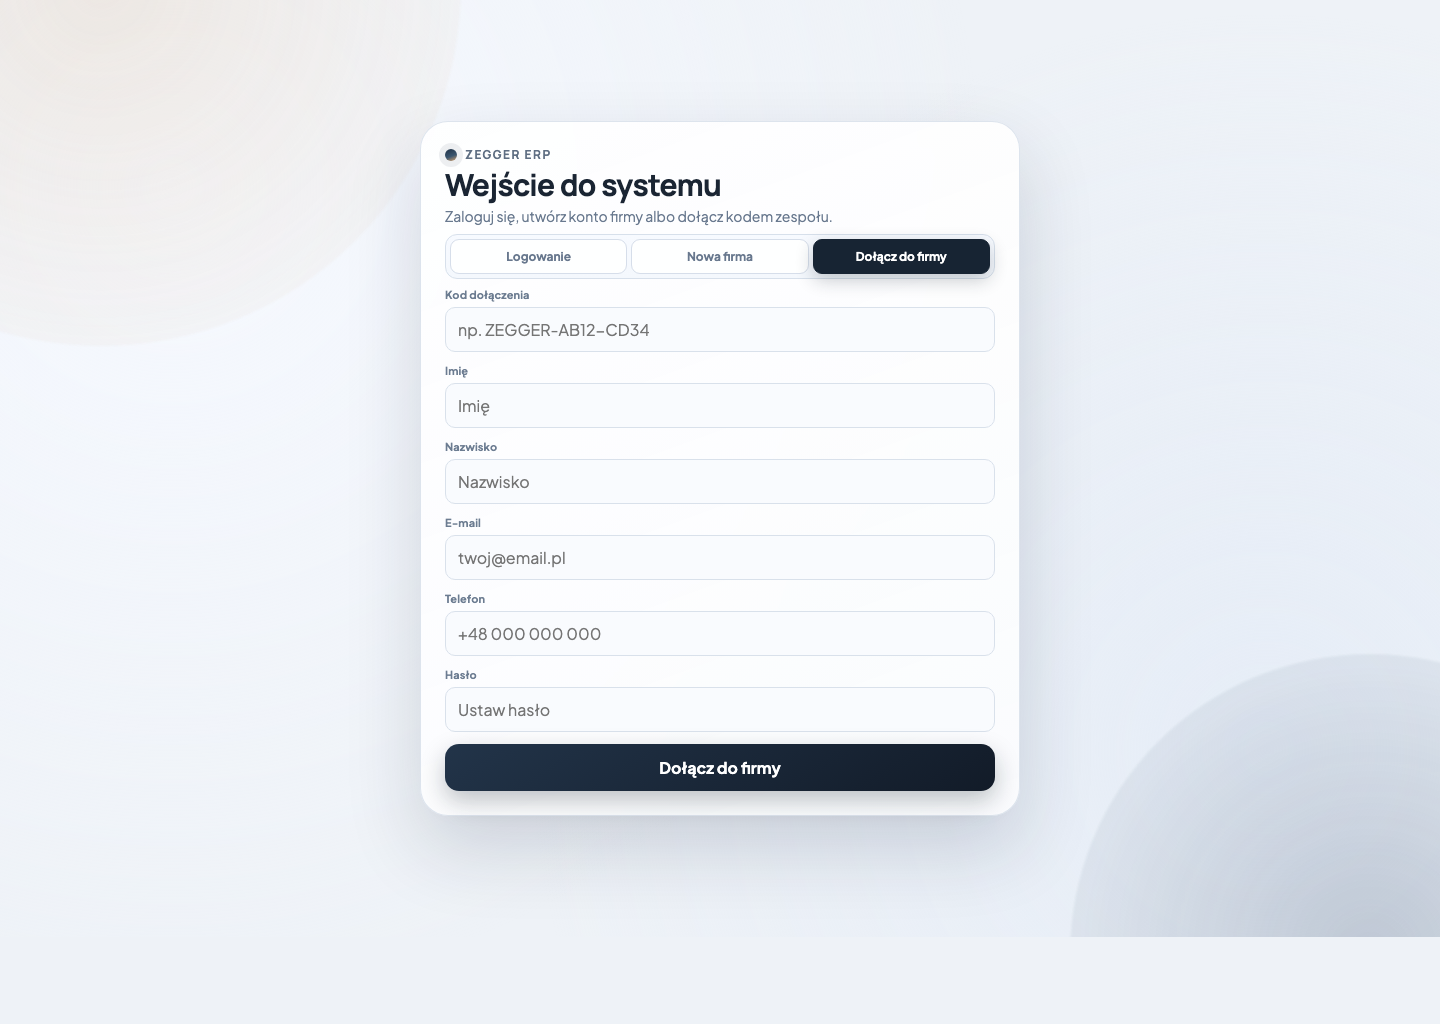
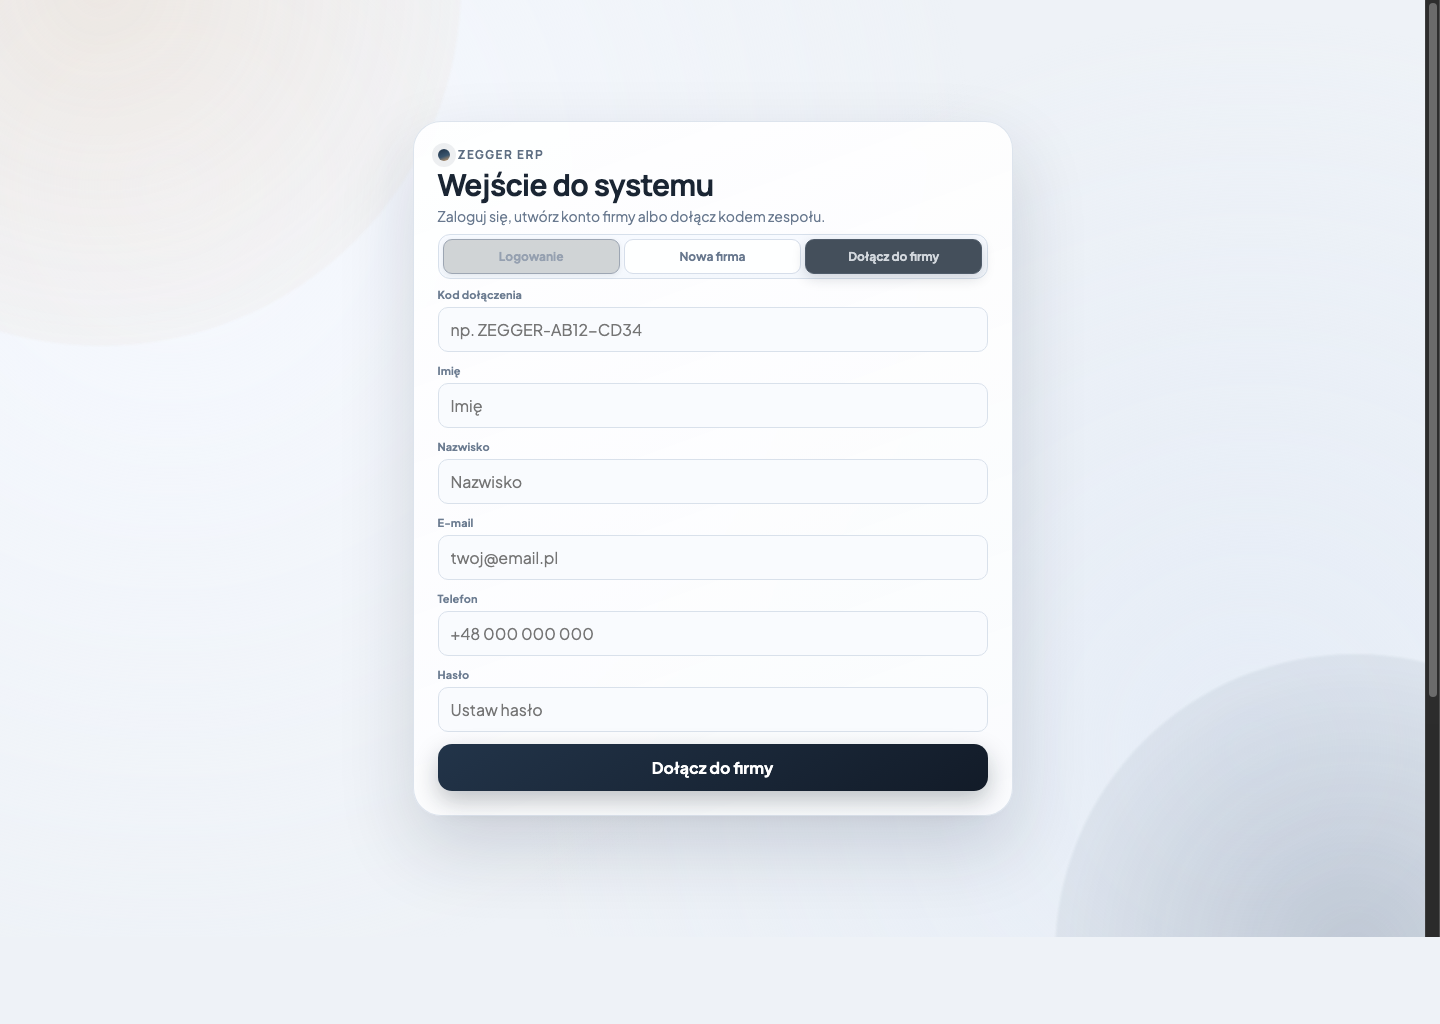
v22

diff --git a/prototype-ui/assets/css/prototype.css b/prototype-ui/assets/css/prototype.css
@@ -447,28 +447,35 @@ textarea {
   padding: 16px;
 }
 
-.zgs-scroll-indicator {
-  position: absolute;
-  right: 7px;
-  width: 5px;
-  border-radius: 999px;
-  background: rgba(136, 151, 171, 0.16);
-  opacity: 0;
-  pointer-events: none;
-  transition: opacity 0.18s ease;
-  z-index: 4;
+/* Globalny, wspólny styl natywnych scrollbarów dla całego ERP desktop */
+.zgs-shell-window,
+.zgs-shell-window :where(*) {
+  scrollbar-width: thin;
+  scrollbar-color: rgba(120, 136, 160, 0.42) transparent;
 }
 
-.zgs-scroll-indicator.is-visible {
-  opacity: 1;
+.zgs-shell-window::-webkit-scrollbar,
+.zgs-shell-window :where(*)::-webkit-scrollbar {
+  width: 6px;
+  height: 6px;
 }
 
-.zgs-scroll-indicator-thumb {
-  display: block;
-  width: 100%;
+.zgs-shell-window::-webkit-scrollbar-track,
+.zgs-shell-window :where(*)::-webkit-scrollbar-track {
+  background: transparent;
+}
+
+.zgs-shell-window::-webkit-scrollbar-thumb,
+.zgs-shell-window :where(*)::-webkit-scrollbar-thumb {
+  background: rgba(120, 136, 160, 0.42);
   border-radius: 999px;
-  background: rgba(67, 88, 113, 0.44);
-  box-shadow: inset 0 0 0 1px rgba(244, 248, 253, 0.55);
+  border: 0;
+  box-shadow: none;
+}
+
+.zgs-shell-window::-webkit-scrollbar-thumb:hover,
+.zgs-shell-window :where(*)::-webkit-scrollbar-thumb:hover {
+  background: rgba(120, 136, 160, 0.58);
 }
 
 .zgs-view {
@@ -1249,7 +1256,7 @@ textarea {
 }
 
 .zgs-chat-grid {
-  grid-template-columns: minmax(210px, 0.58fr) minmax(0, 1.82fr) minmax(236px, 0.82fr);
+  grid-template-columns: minmax(248px, 0.68fr) minmax(0, 1.72fr) minmax(236px, 0.82fr);
 }
 
 .zgs-span-2 {
@@ -2578,12 +2585,11 @@ textarea {
   flex-direction: column;
   gap: 6px;
   position: relative;
-  overflow: hidden;
+  overflow: visible;
 }
 
 .zgs-chat-pane-context {
   grid-template-rows: auto auto auto auto auto auto minmax(0, auto) auto;
-  padding-right: 5px;
   overflow: auto;
   position: relative;
   gap: 8px;
@@ -2655,7 +2661,17 @@ textarea {
   overflow-y: auto;
   overflow-x: hidden;
   position: relative;
+  box-sizing: border-box;
   padding-right: 0;
+  scrollbar-gutter: auto;
+  -ms-overflow-style: none;
+  scrollbar-width: none;
+}
+
+.zgs-chat-list-scroll::-webkit-scrollbar {
+  width: 0;
+  height: 0;
+  display: none;
 }
 
 .zgs-chat-list-search input {
@@ -3578,60 +3594,6 @@ textarea {
 .zgs-thread-entry.is-production-event {
   border-color: #c7d8ea;
   background: #edf4fc;
-}
-
-.zgs-chat-list-scroll {
-  scrollbar-width: thin;
-  scrollbar-color: rgba(120, 136, 160, 0.45) transparent;
-}
-
-.zgs-chat-list-scroll::-webkit-scrollbar {
-  width: 6px;
-  height: 6px;
-}
-
-.zgs-chat-list-scroll::-webkit-scrollbar-track {
-  background: transparent;
-}
-
-.zgs-chat-list-scroll::-webkit-scrollbar-thumb {
-  background: rgba(120, 136, 160, 0.45);
-  border-radius: 999px;
-  border: 0;
-  box-shadow: none;
-}
-
-.zgs-chat-list-scroll::-webkit-scrollbar-thumb:hover {
-  background: rgba(120, 136, 160, 0.62);
-}
-
-.zgs-chat-thread,
-.zgs-chat-pane-context,
-.zgs-chat-status-history {
-  scrollbar-width: thin;
-  scrollbar-color: rgba(67, 88, 113, 0.44) rgba(136, 151, 171, 0.16);
-}
-
-.zgs-chat-thread::-webkit-scrollbar,
-.zgs-chat-pane-context::-webkit-scrollbar,
-.zgs-chat-status-history::-webkit-scrollbar {
-  width: 5px;
-  height: 5px;
-}
-
-.zgs-chat-thread::-webkit-scrollbar-track,
-.zgs-chat-pane-context::-webkit-scrollbar-track,
-.zgs-chat-status-history::-webkit-scrollbar-track {
-  background: rgba(136, 151, 171, 0.16);
-  border-radius: 999px;
-}
-
-.zgs-chat-thread::-webkit-scrollbar-thumb,
-.zgs-chat-pane-context::-webkit-scrollbar-thumb,
-.zgs-chat-status-history::-webkit-scrollbar-thumb {
-  background: rgba(67, 88, 113, 0.44);
-  border-radius: 999px;
-  box-shadow: inset 0 0 0 1px rgba(244, 248, 253, 0.55);
 }
 
 .zgs-chat-followup h4,

diff --git a/prototype-ui/assets/js/app.js b/prototype-ui/assets/js/app.js
@@ -1982,73 +1982,6 @@
       "</div>";
   }
 
-  function initShellScrollIndicator() {
-    var shellWindow = document.querySelector(".zgs-shell-window");
-    var shellContent = document.querySelector(".zgs-shell-content");
-    if (!shellWindow || !shellContent) {
-      return;
-    }
-
-    var indicator = document.createElement("div");
-    indicator.className = "zgs-scroll-indicator";
-    indicator.setAttribute("aria-hidden", "true");
-    indicator.innerHTML = '<span class="zgs-scroll-indicator-thumb"></span>';
-    shellWindow.appendChild(indicator);
-
-    var thumb = indicator.querySelector(".zgs-scroll-indicator-thumb");
-    if (!thumb) {
-      return;
-    }
-
-    function updateGeometry() {
-      var shellRect = shellWindow.getBoundingClientRect();
-      var contentRect = shellContent.getBoundingClientRect();
-      var top = Math.max(0, Math.round(contentRect.top - shellRect.top) + 8);
-      var height = Math.max(40, Math.round(contentRect.height) - 16);
-      indicator.style.top = top + "px";
-      indicator.style.height = height + "px";
-    }
-
-    function updateState() {
-      var scrollHeight = shellContent.scrollHeight;
-      var clientHeight = shellContent.clientHeight;
-      var hasOverflow = scrollHeight > clientHeight + 4;
-      indicator.classList.toggle("is-visible", hasOverflow);
-
-      if (!hasOverflow) {
-        thumb.style.transform = "translateY(0px)";
-        thumb.style.height = "0px";
-        return;
-      }
-
-      var trackHeight = Math.max(0, indicator.clientHeight);
-      var thumbHeight = Math.max(30, Math.round((clientHeight / scrollHeight) * trackHeight));
-      var maxScroll = Math.max(1, scrollHeight - clientHeight);
-      var maxThumbTravel = Math.max(0, trackHeight - thumbHeight);
-      var ratio = Math.min(1, shellContent.scrollTop / maxScroll);
-      thumb.style.height = thumbHeight + "px";
-      thumb.style.transform = "translateY(" + Math.round(maxThumbTravel * ratio) + "px)";
-    }
-
-    function updateAll() {
-      updateGeometry();
-      updateState();
-    }
-
-    refreshShellScrollIndicator = updateAll;
-
-    shellContent.addEventListener("scroll", updateState, { passive: true });
-    window.addEventListener("resize", updateAll);
-
-    if (window.ResizeObserver) {
-      var resizeObserver = new ResizeObserver(updateAll);
-      resizeObserver.observe(shellWindow);
-      resizeObserver.observe(shellContent);
-    }
-
-    updateAll();
-  }
-
   function hydrateFromData() {
     renderAuth();
     renderShellChrome();
@@ -2190,7 +2123,6 @@
   }
 
   bindAppActions();
-  initShellScrollIndicator();
 
   var params = new URLSearchParams(window.location.search);
   var tabParam = params.get("auth");
